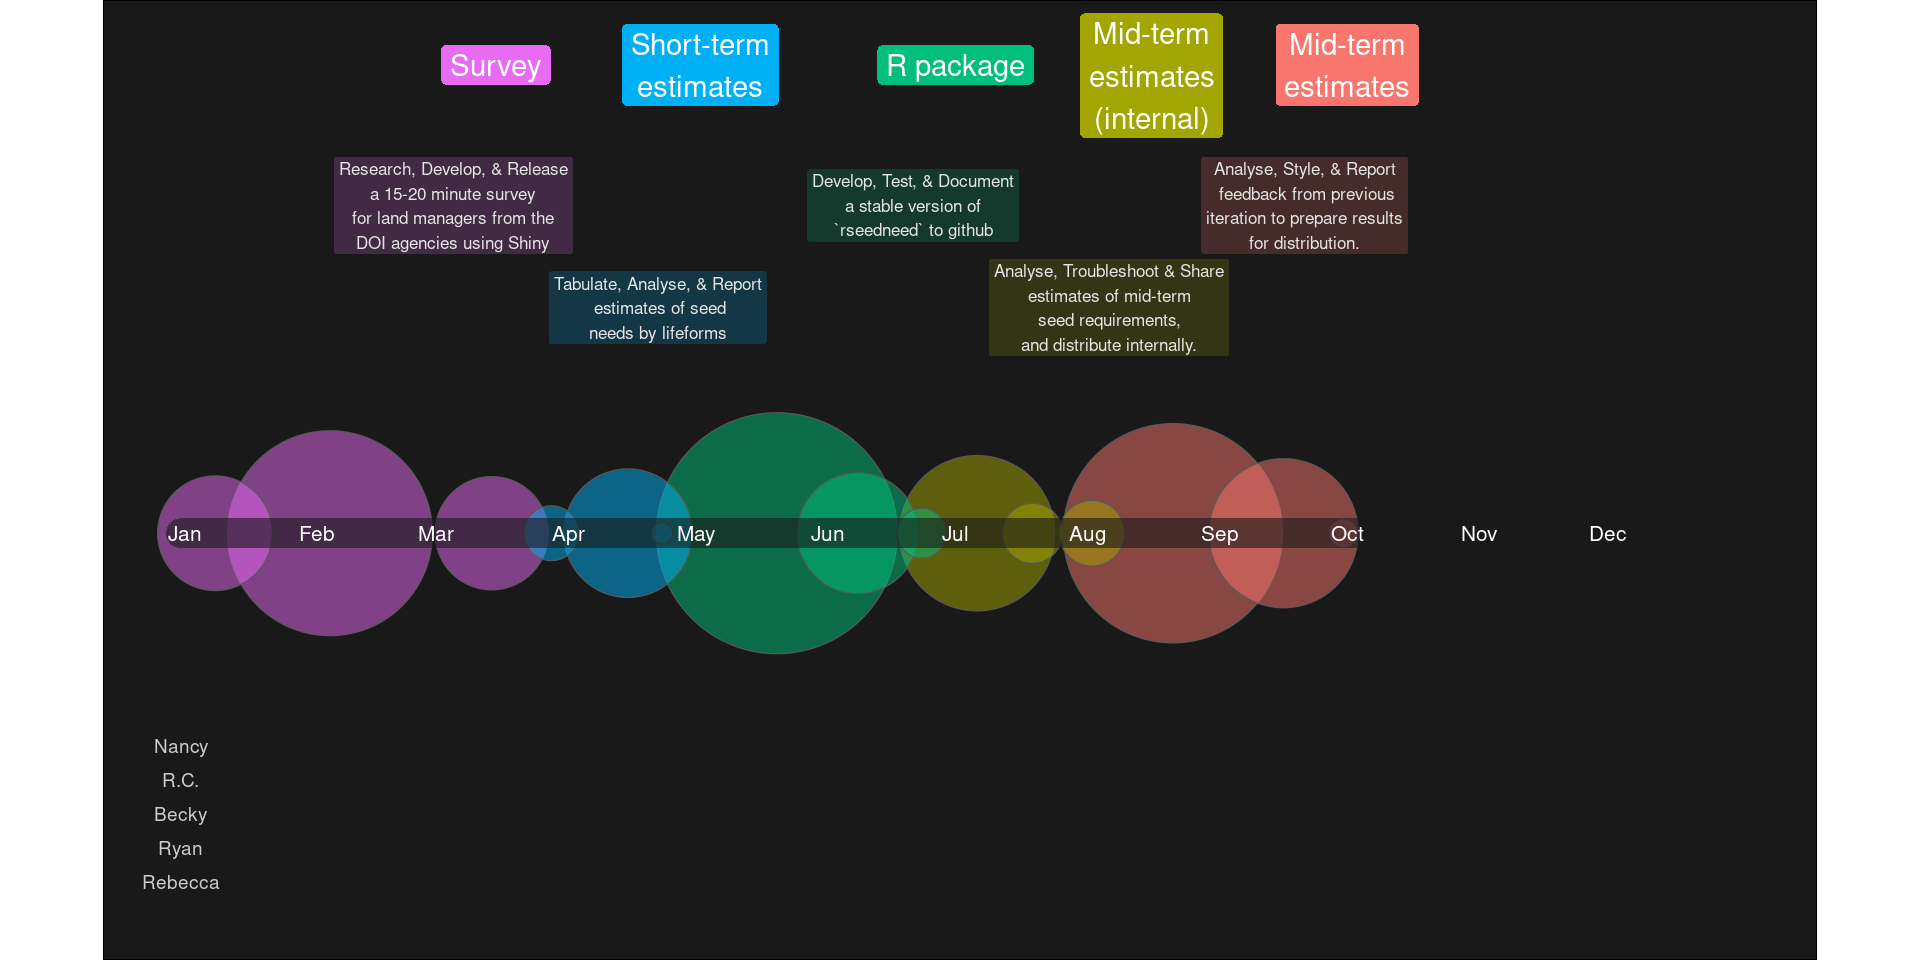
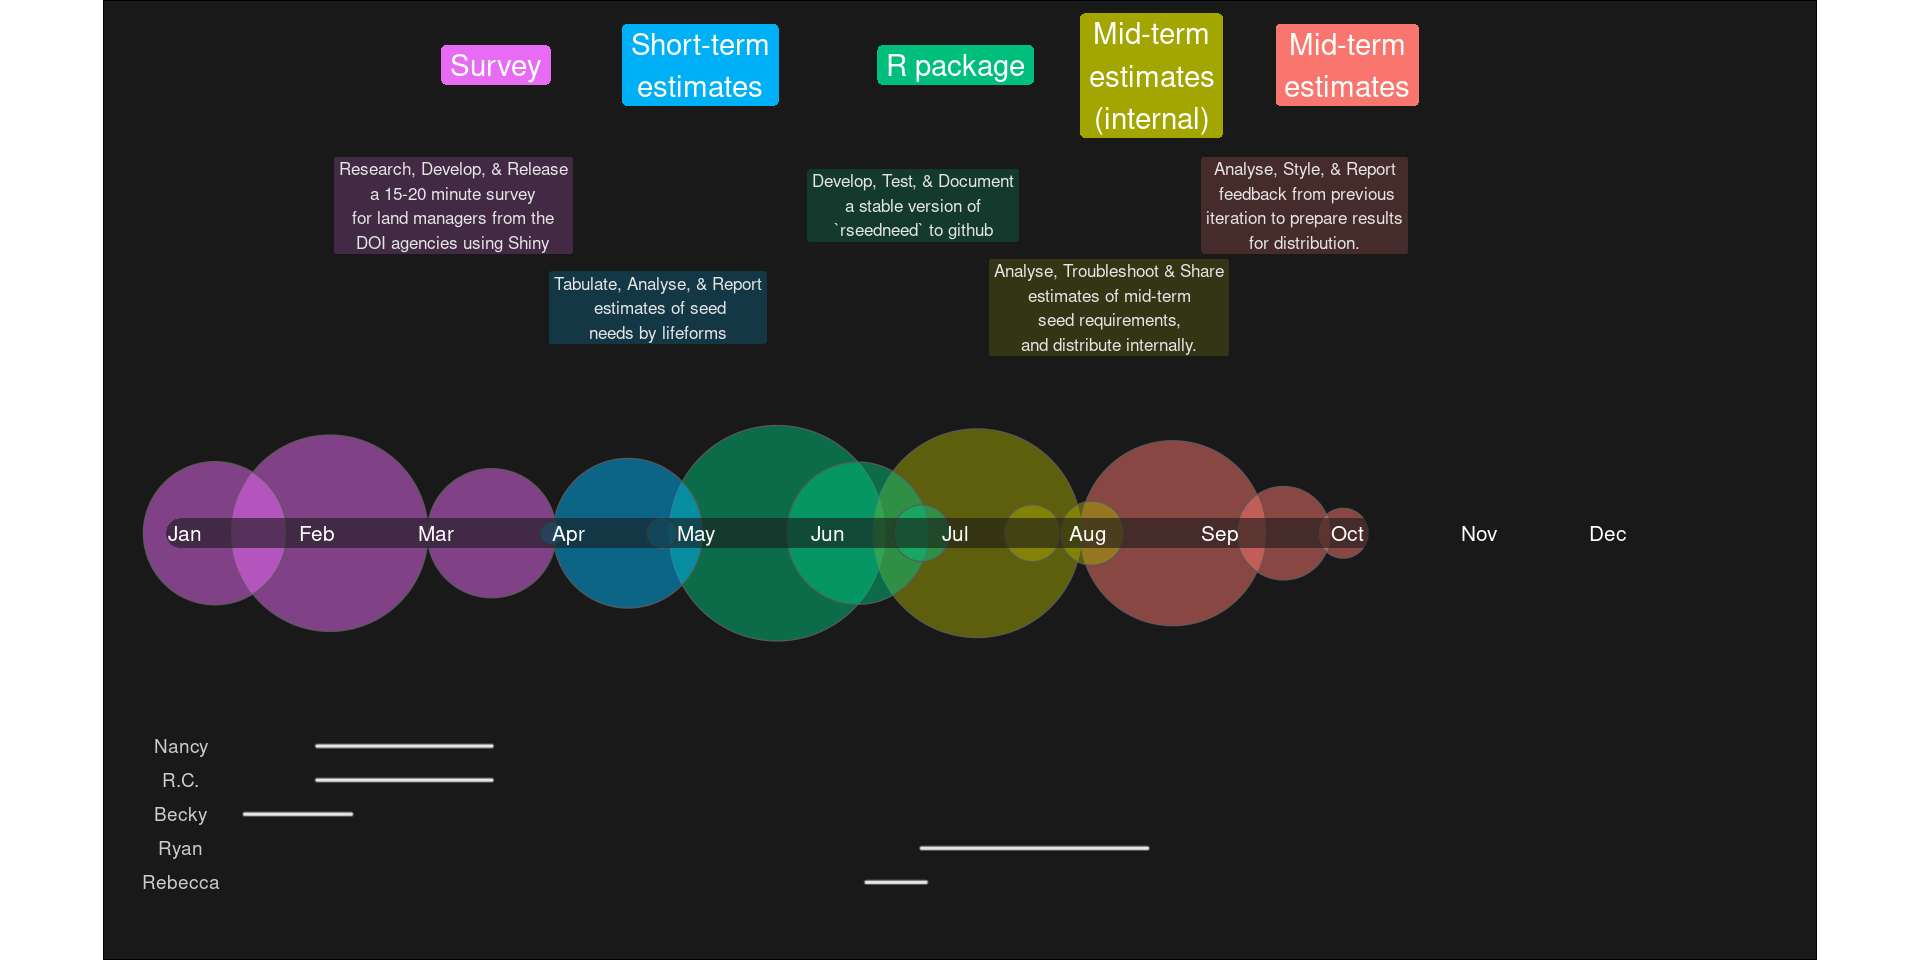
added person help

diff --git a/PitchTalk/SeedMarketSizePitch.html b/PitchTalk/SeedMarketSizePitch.html
@@ -369,7 +369,9 @@ Domain &amp; Grain
 </ul>
 </div>
 <aside class="notes">
-<p>Rseedneed</p>
+<p>Theoretically most of our values and work should be transferrable to other municipal governments, as well as companies interested in producting seed. Futher there is one very large DOI agency - the BIA - which I think may not be the most involved in this process, and it seems similar processes will need to be done in Puerto Rico, and the Pacific Islands may very well just more or less redo much of this themselves. So it would be great to be able to get folks onto the same playing field without much effort.</p>
+<p>In the botany community sharing ‘scripts’ seems common, which yes we can do, but most important is actually developing code of the quality that it can be bound into packages and the functions can be shared. This allows us to ensure that the analyses are actually reproducible, and that the code works on multiple operating systems.</p>
+<p>Forest service has for a long time loosely followed this tradition, although lot’s of their software is in external programs making maintenance very hard. Both the USGS and EPA are frequent developers of R packages for various analysis.</p>
 <style type="text/css">
         span.MJX_Assistive_MathML {
           position:absolute!important;
@@ -382,8 +384,8 @@ Domain &amp; Grain
           display:block!important;
       }</style></aside>
 </section>
-<section id="timeframe" class="slide level2">
-<h2>Timeframe</h2>
+<section id="timeline" class="slide level2">
+<h2>Timeline</h2>
 
 
 <img data-src="SeedMarketSizePitch_files/figure-revealjs/unnamed-chunk-1-1.png" width="960" class="r-stretch"></section></section>
